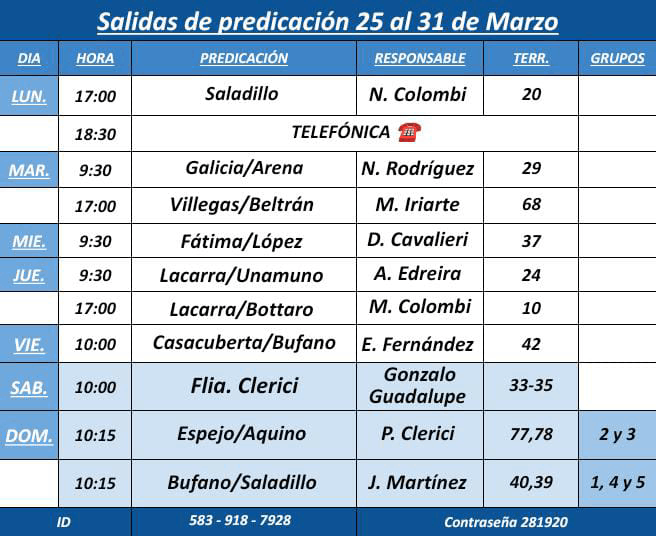
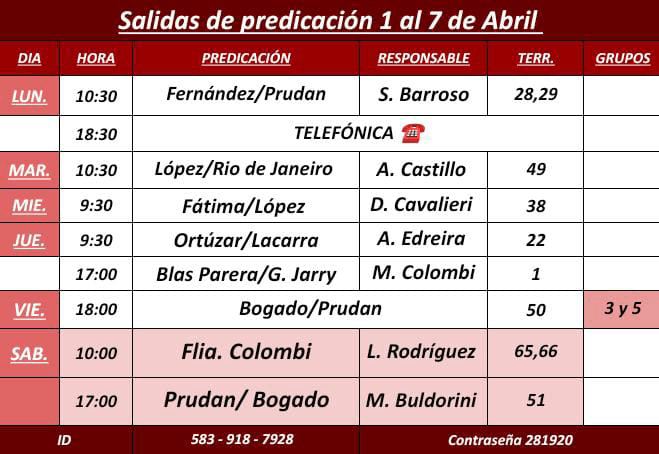
actualizo salida y programa

diff --git a/pages/programaSemanal/programaSemanal.html b/pages/programaSemanal/programaSemanal.html
@@ -39,8 +39,9 @@
     <main>
         <section class="reuSemanal">
             <h2> Programa para la reunión entre semana</h2>
-            <img src="./asignacionesMarzo1.png" alt="">
-            <img src="./asignacionesMarzo2.png" alt="">
+            <img src="./asignacionesAbril1.png" alt="">
+            <img src="./asignacionesAbril2.png" alt="">
+            <img src="./asignacionesAbril3.png" alt="">
         </section>
     </main>
     <footer>
